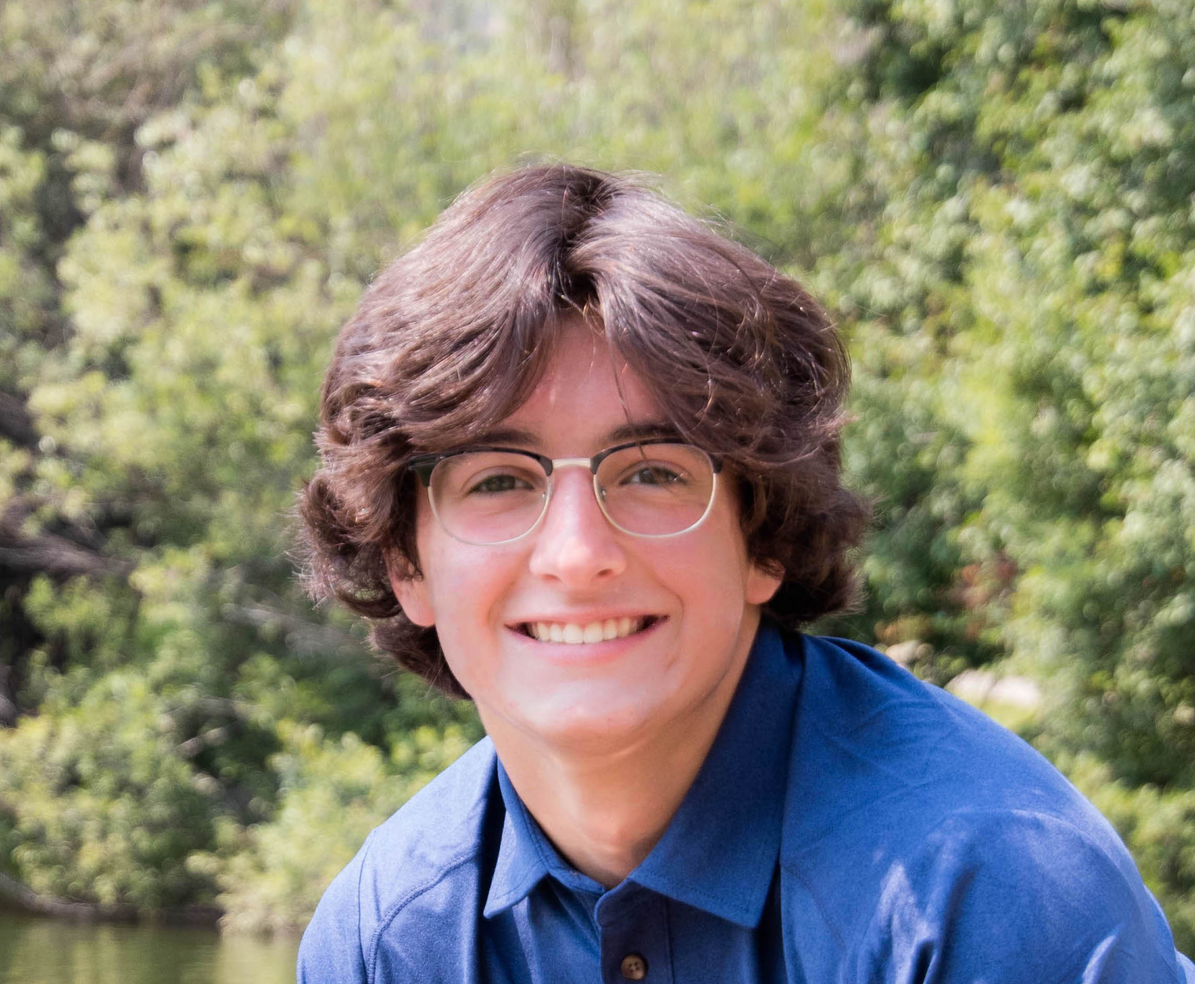
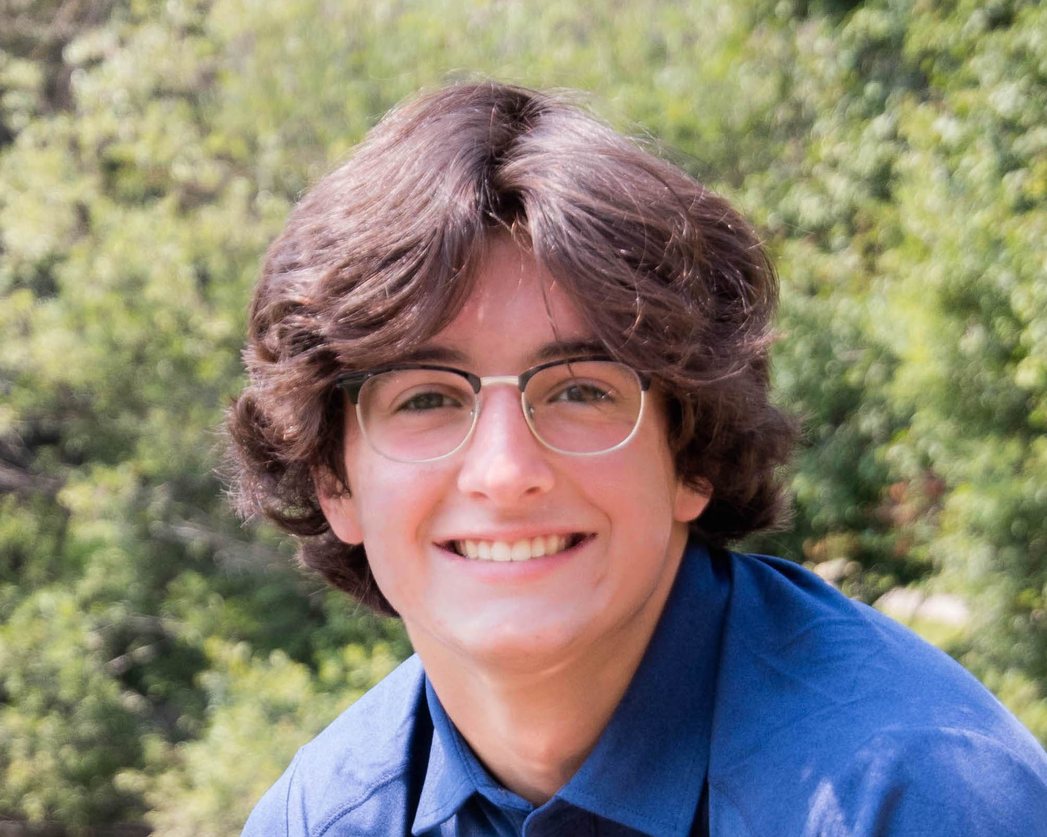
change

diff --git a/index.html b/index.html
@@ -10,7 +10,7 @@
   </head>
   <body>
     <nav id="desktop-nav">
-      <div class="logo">John Doe</div>
+      <div class="logo">Elijah Williams</div>
       <div>
         <ul class="nav-links">
           <li><a href="#about">About</a></li>
@@ -21,7 +21,7 @@
       </div>
     </nav>
     <nav id="hamburger-nav">
-      <div class="logo">John Doe</div>
+      <div class="logo">Elijah Willians</div>
       <div class="hamburger-menu">
         <div class="hamburger-icon" onclick="toggleMenu()">
           <span></span>
@@ -38,12 +38,12 @@
     </nav>
     <section id="profile">
       <div class="section__pic-container">
-        <img src="./assets/profile-pic.png" alt="John Doe profile picture" />
+        <img src="./assets/IMG_1978.png" alt="John Doe profile picture" />
       </div>
       <div class="section__text">
         <p class="section__text__p1">Hello, I'm</p>
-        <h1 class="title">John Doe</h1>
-        <p class="section__text__p2">Frontend Developer</p>
+        <h1 class="title">Elijah Williams</h1>
+        <p class="section__text__p2">Software Developer</p>
         <div class="btn-container">
           <button
             class="btn btn-color-2"
@@ -60,13 +60,13 @@
             src="./assets/linkedin.png"
             alt="My LinkedIn profile"
             class="icon"
-            onclick="location.href='https://linkedin.com/'"
+            onclick="location.href='https://www.linkedin.com/in/elijah-williams-42b814228/'"
           />
           <img
             src="./assets/github.png"
             alt="My Github profile"
             class="icon"
-            onclick="location.href='https://github.com/'"
+            onclick="location.href='https://github.com/elijahelephant'"
           />
         </div>
       </div>
@@ -77,7 +77,7 @@
       <div class="section-container">
         <div class="section__pic-container">
           <img
-            src="./assets/about-pic.png"
+            src="./assets/IMG_2338 2.JPEG"
             alt="Profile picture"
             class="about-pic"
           />
@@ -91,7 +91,7 @@
                 class="icon"
               />
               <h3>Experience</h3>
-              <p>2+ years <br />Frontend Development</p>
+              <p>2nd Year <br />Software Developer</p>
             </div>
             <div class="details-container">
               <img

diff --git a/mediaqueries.css b/mediaqueries.css
@@ -38,8 +38,8 @@
     margin: 0 5%;
   }
   .section__pic-container {
-    width: 275px;
-    height: 275px;
+    width: 250px;
+    height: 250px;
     margin: 0 auto 2rem;
   }
   .about-containers {
